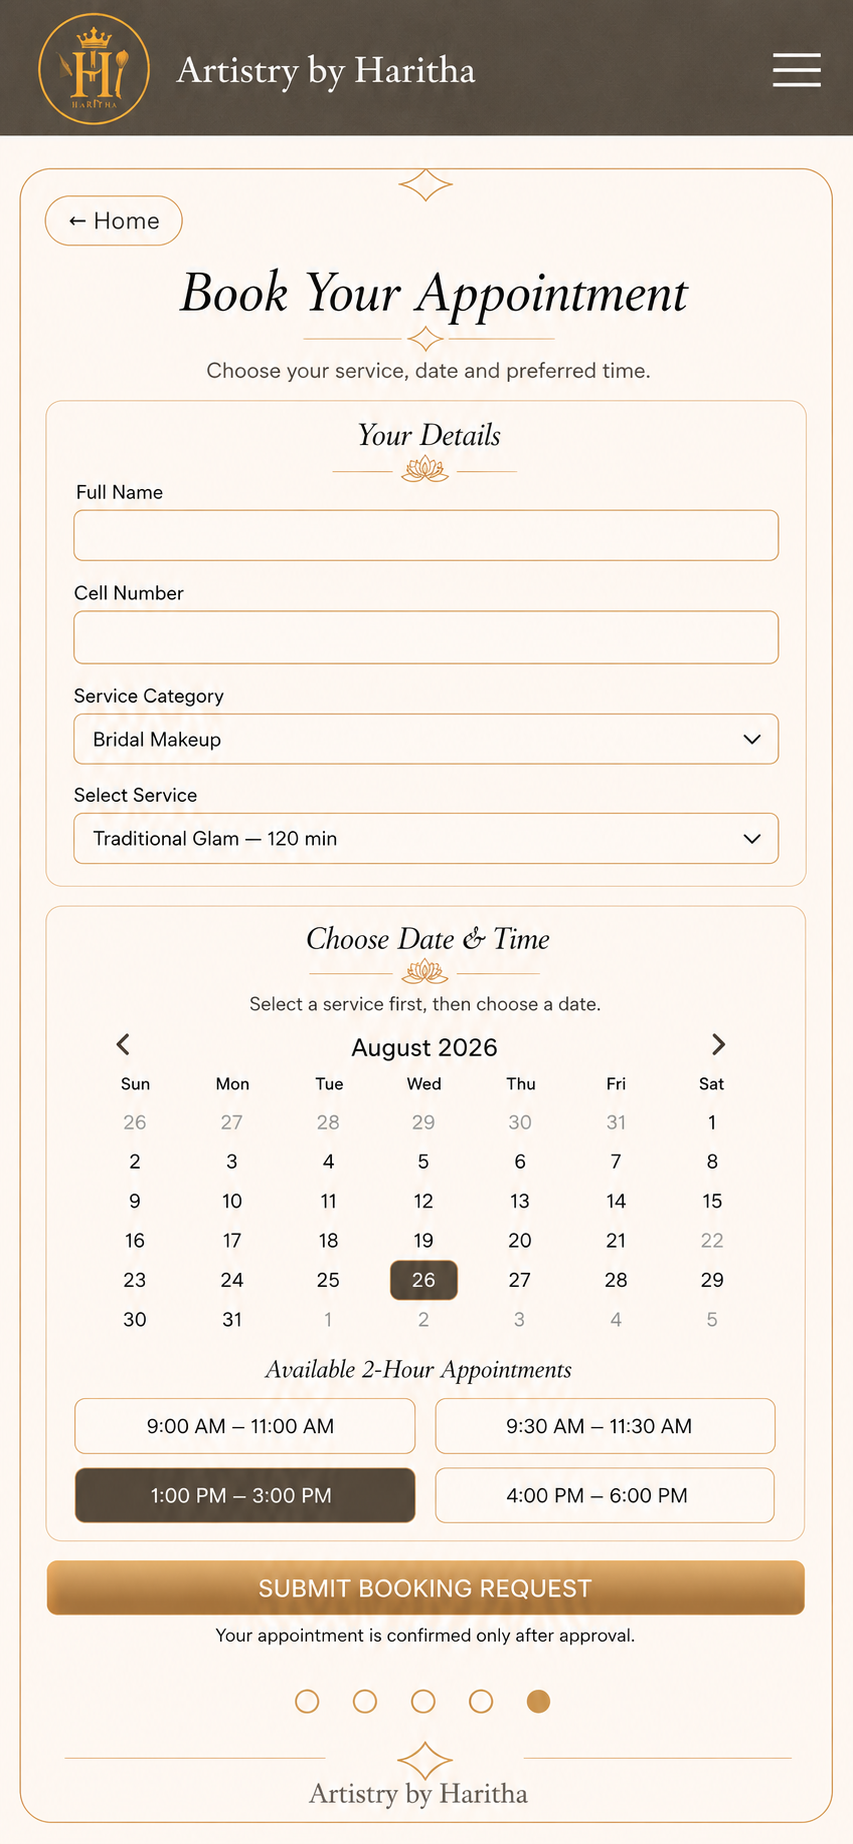
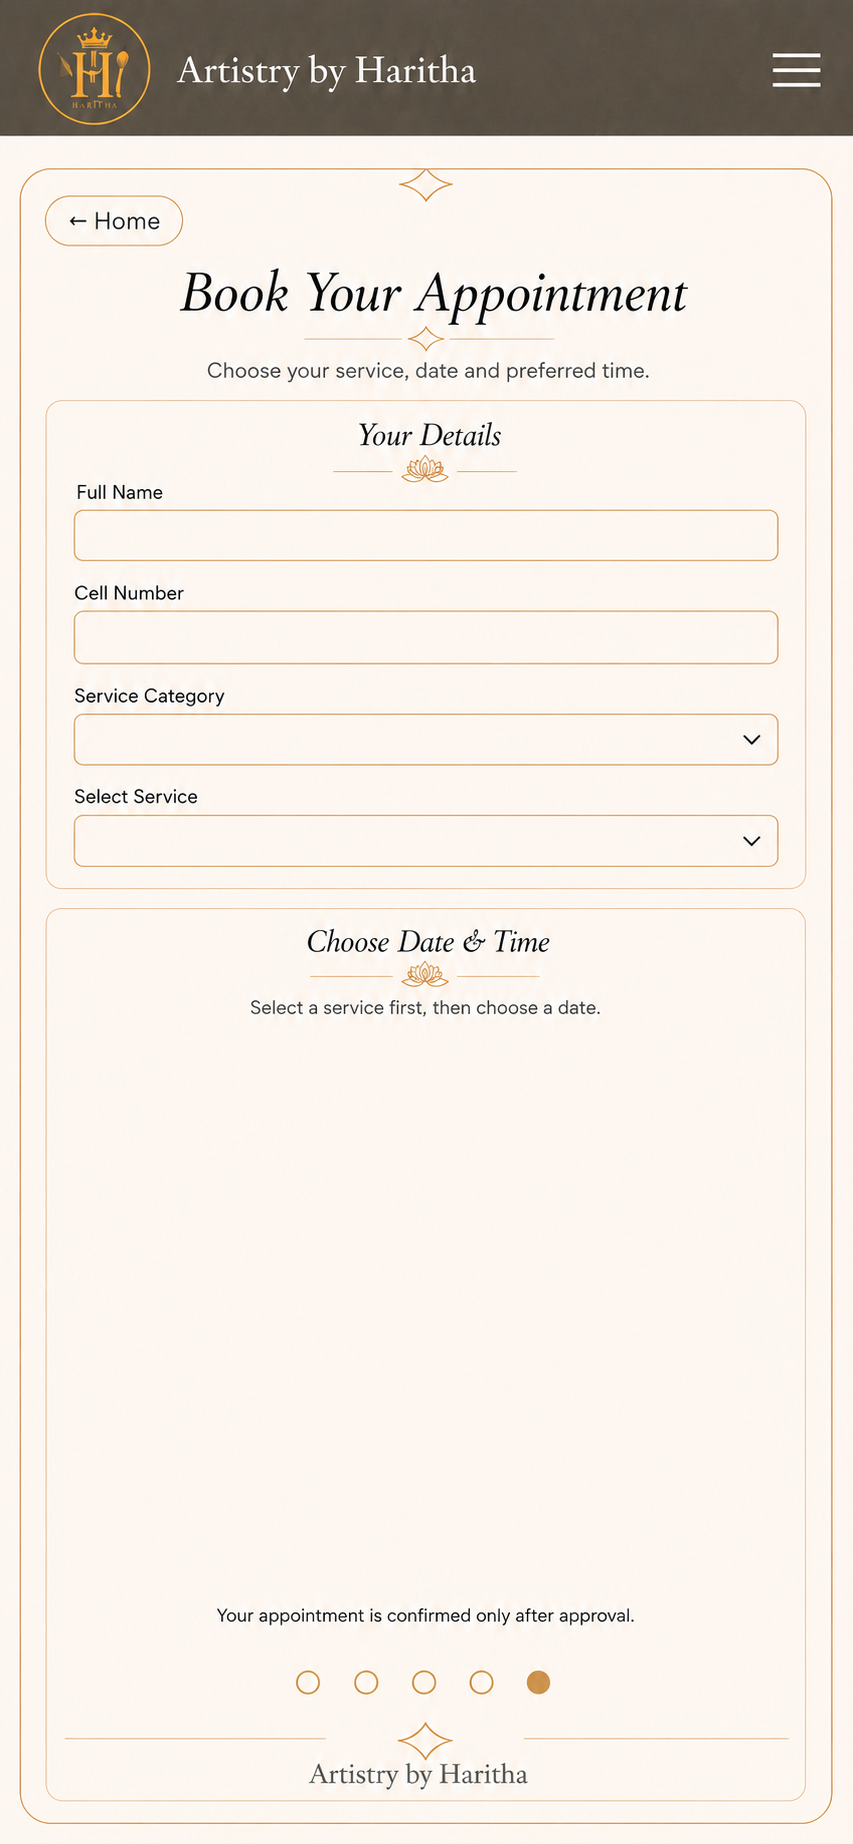
Add files via upload

diff --git a/index.html b/index.html
@@ -659,6 +659,37 @@
       box-shadow: 0 0 0 3px rgba(201, 164, 111, .18);
     }
 
+    .booking-category,
+    .booking-service {
+      font-family: Georgia, "Times New Roman", serif;
+      font-weight: 600;
+      letter-spacing: .015em;
+      color: #49382d;
+    }
+
+    .booking-category option,
+    .booking-service option {
+      padding: 9px 12px;
+      background: #fffaf6;
+      color: #49382d;
+      font-family: Georgia, "Times New Roman", serif;
+      font-size: 16px;
+      font-weight: 400;
+      line-height: 1.45;
+    }
+
+    .booking-category option[value=""],
+    .booking-service option[value=""] {
+      color: #8a7768;
+      font-style: italic;
+    }
+
+    .booking-category option:checked,
+    .booking-service option:checked {
+      background: linear-gradient(#e6c58e, #e6c58e);
+      color: #35271f;
+    }
+
     .booking-name { top: 36.05%; }
     .booking-cell { top: 44.40%; }
     .booking-category { top: 52.65%; }
@@ -1018,6 +1049,17 @@
       .booking-cell { top: 33.25%; }
       .booking-category { top: 38.75%; }
       .booking-service { top: 44.15%; }
+
+      .booking-category,
+      .booking-service {
+        font-size: clamp(13px, 3.25vw, 17px);
+        font-weight: 600;
+      }
+
+      .booking-category option,
+      .booking-service option {
+        font-size: 15px;
+      }
 
       .booking-date-picker-ui {
         left: 7.65%;
@@ -1709,6 +1751,7 @@
 
     function updateDatePickerVisibility() {
       const hasSelectedService = Boolean(selectedServiceDuration);
+      if (hasSelectedService) bookingDate.min = getBusinessNow().dateKey;
       bookingDatePicker.hidden = !hasSelectedService;
       bookingDate.disabled = !hasSelectedService;
       bookingDatePicker.setAttribute('aria-hidden', hasSelectedService ? 'false' : 'true');
@@ -1750,6 +1793,27 @@
       return `${year}-${month}-${day}`;
     }
 
+    function getBusinessNow() {
+      const parts = new Intl.DateTimeFormat('en-US', {
+        timeZone: BUSINESS_TIME_ZONE,
+        year: 'numeric',
+        month: '2-digit',
+        day: '2-digit',
+        hour: '2-digit',
+        minute: '2-digit',
+        second: '2-digit',
+        hourCycle: 'h23'
+      }).formatToParts(new Date()).reduce((values, part) => {
+        if (part.type !== 'literal') values[part.type] = part.value;
+        return values;
+      }, {});
+
+      return {
+        dateKey: `${parts.year}-${parts.month}-${parts.day}`,
+        minutes: Number(parts.hour) * 60 + Number(parts.minute) + Number(parts.second) / 60
+      };
+    }
+
     function dateFromInputValue(value) {
       const [year, month, day] = value.split('-').map(Number);
       if (!year || !month || !day) return null;
@@ -1780,13 +1844,18 @@
       const isWeekend = date.getDay() === 0 || date.getDay() === 6;
       const openingMinutes = isWeekend ? 0 : 15 * 60;
       const closingMinutes = isWeekend ? 24 * 60 : 20 * 60;
+      const selectedDateKey = dateKeyFromDate(date);
+      const businessNow = getBusinessNow();
       const candidates = [];
+
+      if (selectedDateKey < businessNow.dateKey) return candidates;
 
       for (
         let start = openingMinutes;
         start + durationMinutes <= closingMinutes;
         start += SLOT_INTERVAL_MINUTES
       ) {
+        if (selectedDateKey === businessNow.dateKey && start < businessNow.minutes) continue;
         const blocks = occupiedBlocks(start, durationMinutes);
         if (blocks.every((minute) => !currentlyBookedMinutes.has(minute))) {
           candidates.push(start);
@@ -1799,6 +1868,13 @@
       if (!selectedServiceDuration) {
         setBookingMessage('Please select a service first.', 'error');
         showToast('Please select a service first.');
+        return;
+      }
+
+      if (dateKeyFromDate(date) < getBusinessNow().dateKey) {
+        bookingDate.value = '';
+        bookingSlots.hidden = true;
+        setBookingMessage('Please select today or a future date in Eastern Time.', 'error');
         return;
       }
 
@@ -1888,6 +1964,14 @@
         return;
       }
 
+      if (!appointmentCandidates(selectedBookingDate, selectedServiceDuration).includes(selectedBookingStart)) {
+        selectedBookingStart = null;
+        bookingSubmit.disabled = true;
+        renderAvailableBookingSlots();
+        setBookingMessage('That time has passed or is no longer available. Please select another time.', 'error');
+        return;
+      }
+
       bookingSubmit.disabled = true;
       bookingSubmit.textContent = 'RESERVING…';
       setBookingMessage('Saving your booking request…');
@@ -1929,7 +2013,7 @@
       }
     });
 
-    bookingDate.min = dateKeyFromDate(new Date());
+    bookingDate.min = getBusinessNow().dateKey;
     updateDatePickerVisibility();
 
     document.querySelectorAll('[aria-label^="Book "]:not([aria-label="Book Now"])').forEach((button) => {
